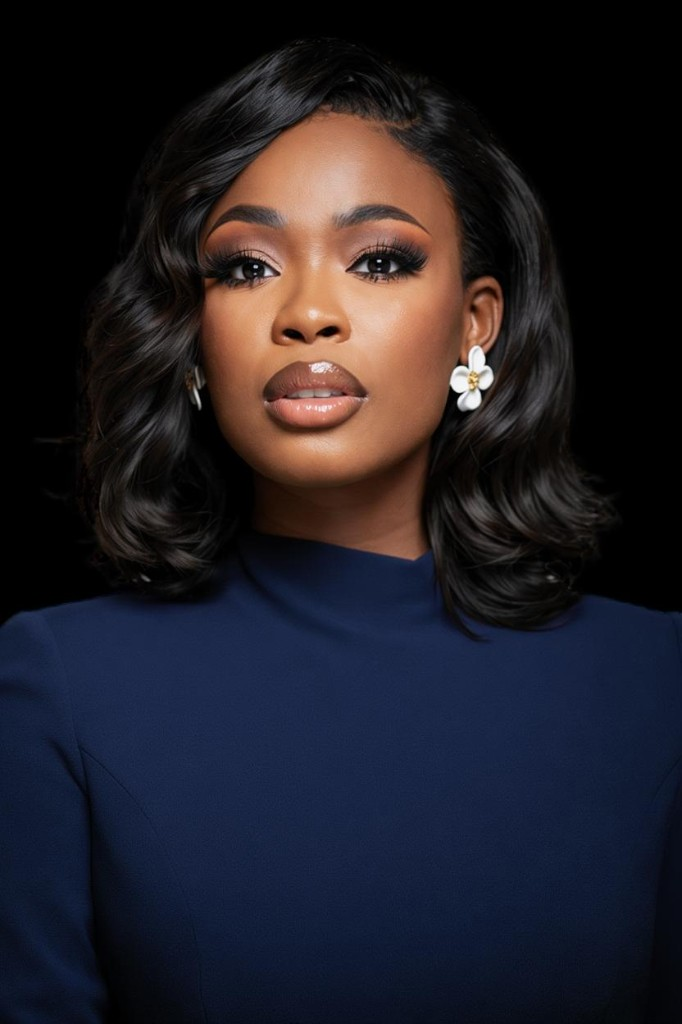
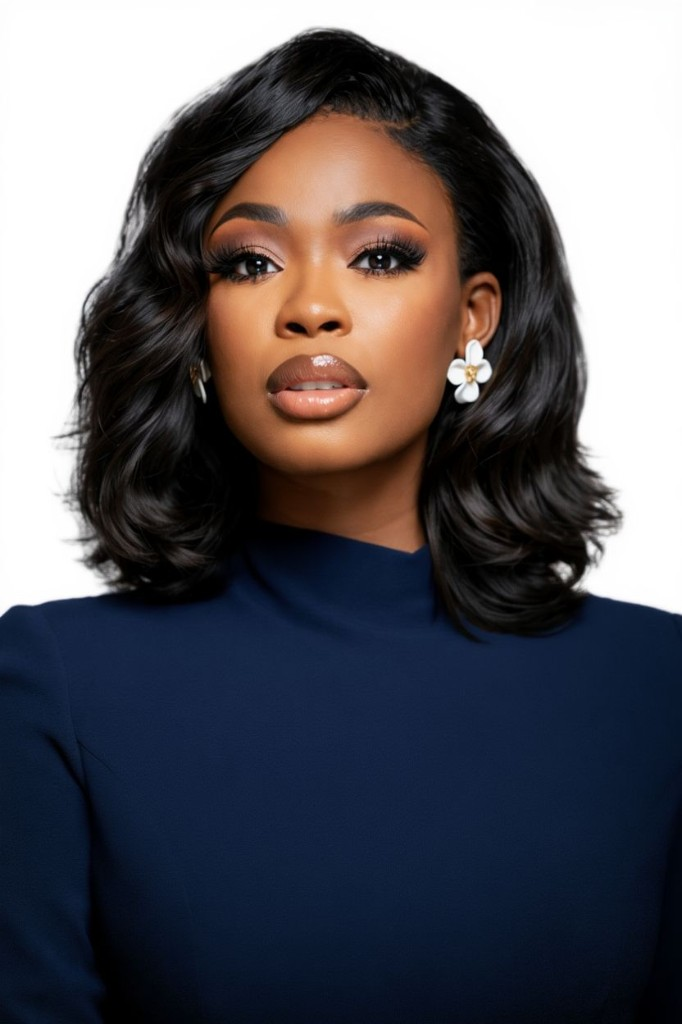
Photo auteur (fond blanc, cadre portrait), bio 70k abonnes + 3 phrases vendeuses

diff --git a/client/src/App.tsx b/client/src/App.tsx
@@ -241,7 +241,7 @@ function App() {
               <div className="author-content">
                 <h2 className="author-title">Biographie de l&apos;auteur</h2>
                 <p className="author-text">
-                  Mazidath Bello est une auteure béninoise, coach en éloquence et fondatrice de &quot;La Muse Éloquente&quot;. Championne nationale d&apos;éloquence en France, elle accompagne des centaines de personnes à révéler leur potentiel oratoire. Forte d&apos;une communauté de plus de 50&nbsp;000 abonnés, elle inspire la jeunesse africaine et francophone à prendre la parole avec confiance. &quot;Chroniques d&apos;une voix qui s&apos;est révélée&quot; est son premier ouvrage autobiographique.
+                  Mazidath Bello est une auteure béninoise, coach en éloquence et fondatrice de &quot;La Muse Éloquente&quot;. Championne nationale d&apos;éloquence en France, elle accompagne des centaines de personnes à révéler leur potentiel oratoire. Forte d&apos;une communauté de plus de 70&nbsp;000 abonnés, elle inspire la jeunesse africaine et francophone à prendre la parole avec confiance. &quot;Chroniques d&apos;une voix qui s&apos;est révélée&quot; est son premier ouvrage autobiographique. Ses ebooks vous donnent les méthodes concrètes pour transformer votre prise de parole, étape par étape. Des centaines de personnes ont déjà franchi le cap grâce à ses techniques. Découvrez dès maintenant les outils qui vous permettront de briller à l&apos;oral.
                 </p>
               </div>
             </section>

diff --git a/client/src/index.css b/client/src/index.css
@@ -269,14 +269,17 @@ a {
   overflow: hidden;
   border: 1px solid var(--navy-border);
   box-shadow: var(--shadow-soft);
-  aspect-ratio: 1;
-  max-width: 200px;
+  aspect-ratio: 3 / 4;
+  width: 180px;
+  max-width: 100%;
+  background: #fff;
 }
 
 .author-photo img {
   width: 100%;
   height: 100%;
   object-fit: cover;
+  object-position: center 25%;
   display: block;
 }
 
